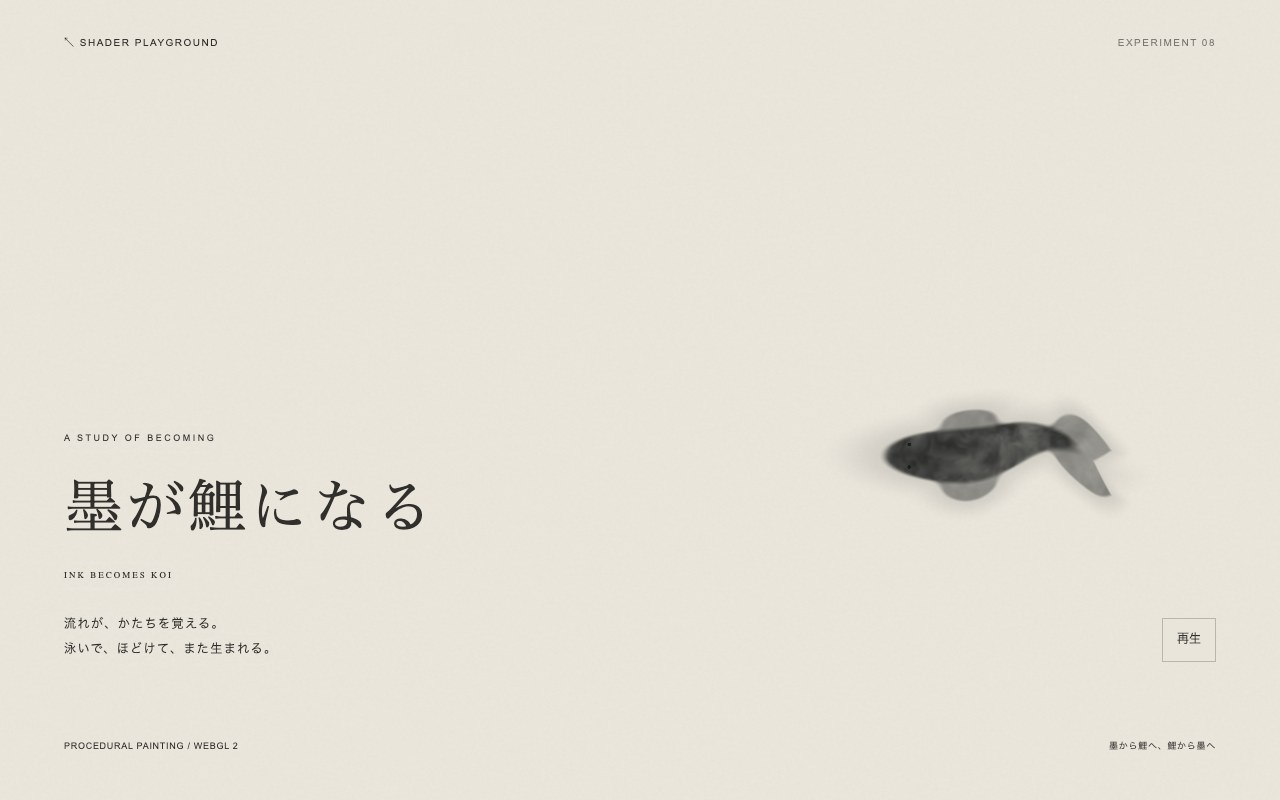
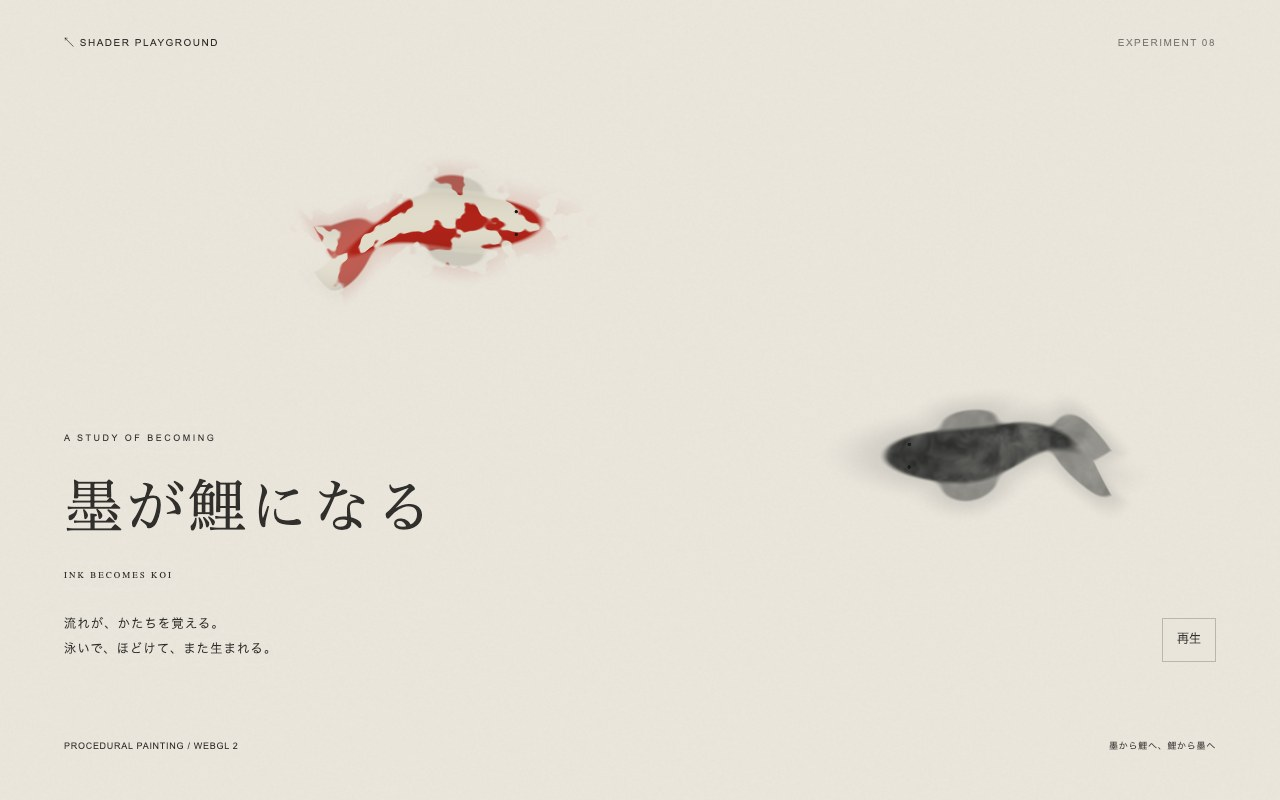
feat: preview a second red and white koi alongside sumi

Changed region(s): [[0.25, 0.2188, 0.4375, 0.375]]

diff --git a/ink-to-koi/index.html b/ink-to-koi/index.html
@@ -7,7 +7,7 @@
 <link rel="stylesheet" href="style.css"><script src="app.js" type="module"></script>
 </head>
 <body>
-<canvas id="view" aria-label="墨が一匹の鯉になり、泳いで再び墨へ溶けるアニメーション"></canvas>
+<canvas id="view" aria-label="墨が墨色の鯉と赤白の錦鯉になり、二匹で泳いで再び墨へ溶けるアニメーション"></canvas>
 <header><a href="../">↖ SHADER PLAYGROUND</a><span>EXPERIMENT 08</span></header>
 <main><div class="intro"><p class="eyebrow">A STUDY OF BECOMING</p><h1>墨が鯉になる<span>INK BECOMES KOI</span></h1><p class="description">流れが、かたちを覚える。<br>泳いで、ほどけて、また生まれる。</p></div>
 <button id="pause" aria-pressed="false" disabled>一時停止</button></main>

diff --git a/ink-to-koi/README.md b/ink-to-koi/README.md
@@ -1,6 +1,12 @@
 # 墨が鯉になる / Ink Becomes Koi
 
-「墨と鯉（koi）」とは別作品。単色の墨が一匹の鯉へまとまり、泳いで再びほどける24秒の連続ループです。
+「墨と鯉（koi）」とは別作品。墨が鯉へまとまり、泳いで再びほどける24秒の連続ループです。
+
+## 二匹版の試作
+
+`feat/ink-to-koi-kohaku` では、公開済みの墨色の一匹に赤白の錦鯉をもう一匹追加しています。二匹は半周ずれた位置で泳ぎ、二匹目は墨から形が現れるにつれて、白地に朱の斑が浮かびます。外部素材は追加していません。この二匹版は未公開で、mainの一匹版と比較するための試作です。
+
+縦長画面では遊泳範囲を上側にまとめ、二匹目がタイトルに重なるのを抑えています。
 
 - WebGL 2、外部ライブラリ・外部素材・ビルド不要。背景の紙目は静止しています。
 - 一時停止／再生のみ。OSのモーション低減設定では鯉の姿で停止して開きます。
@@ -17,7 +23,11 @@
 
 GitHub Pages の公開は既存と同じ `main` / ルート。公開後のパスは `/shader-playground/ink-to-koi/` です。
 
-## 検証（2026-10-30）
+## 二匹版の検証（2026-10-30）
+
+Chromeで赤白の模様と二匹の描画、1280×800 / 390×844、24秒ループ、停止・再開、モーション低減、WebGL非対応の案内、トップからの遷移、コンテキスト復帰を確認。コンソールとWebGLのエラーなし。0秒と24秒の画像差は8bitチャンネルの絶対値合計19でした。実機性能・Safariは未確認です。
+
+## 一匹版の検証（2026-10-30）
 
 ローカルHTTP配信とChromeの実描画で確認しました。
 
@@ -29,4 +39,4 @@ GitHub Pages の公開は既存と同じ `main` / ルート。公開後のパス
 - トップの作品カードから遷移、WebGL非対応の案内、コンテキスト喪失からの再描画を確認。
 - 通常描画のコンソールエラー・WebGLエラーなし。JavaScript構文・`git diff --check` 成功。
 
-実機スマートフォンのGPU性能・Safariでの滑らかさは未確認。GitHub Pagesでの公開後確認は別途必要です。
+実機スマートフォンのGPU性能・Safariでの滑らかさは未確認。一匹版はPR #15でmainへマージし、GitHub PagesのHTTP 200、公開シェーダーとマージ内容の一致、公開URLでのChrome実描画・トップの導線を確認しました。
